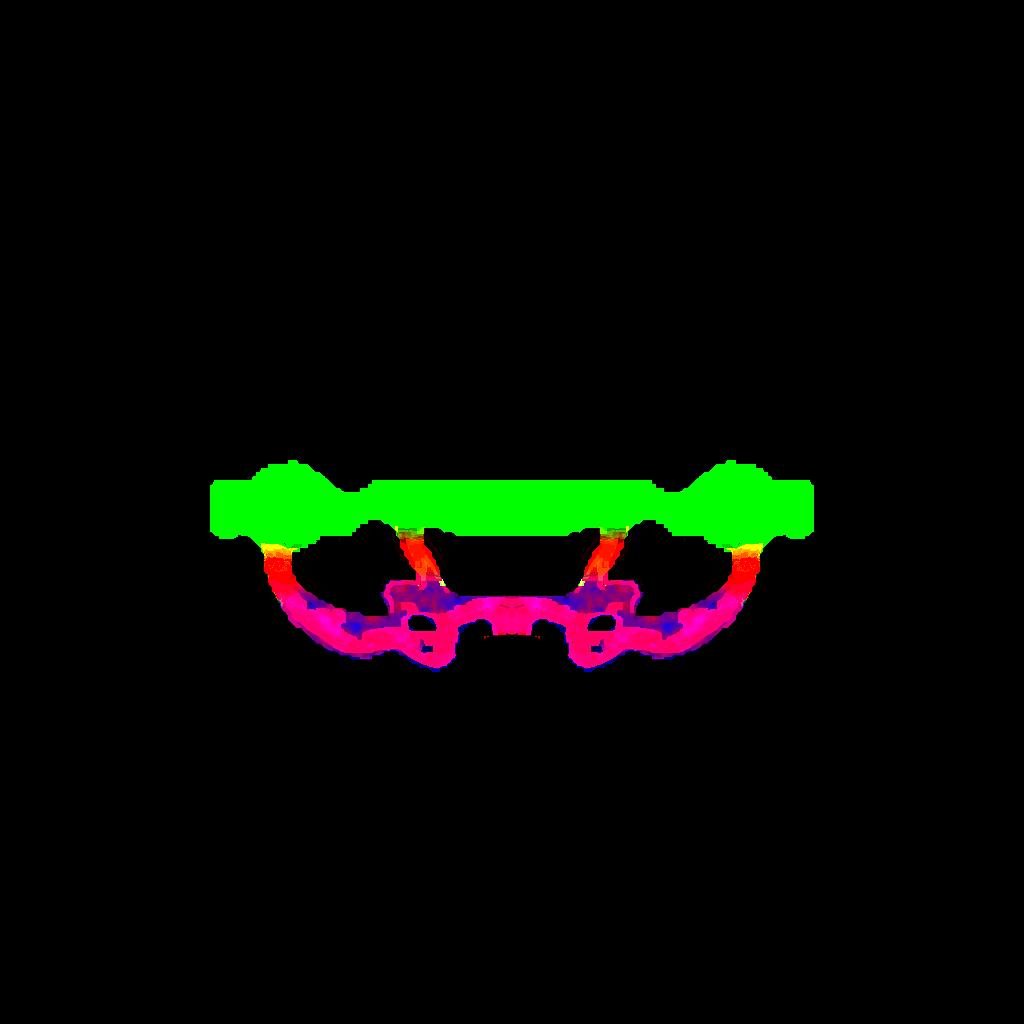
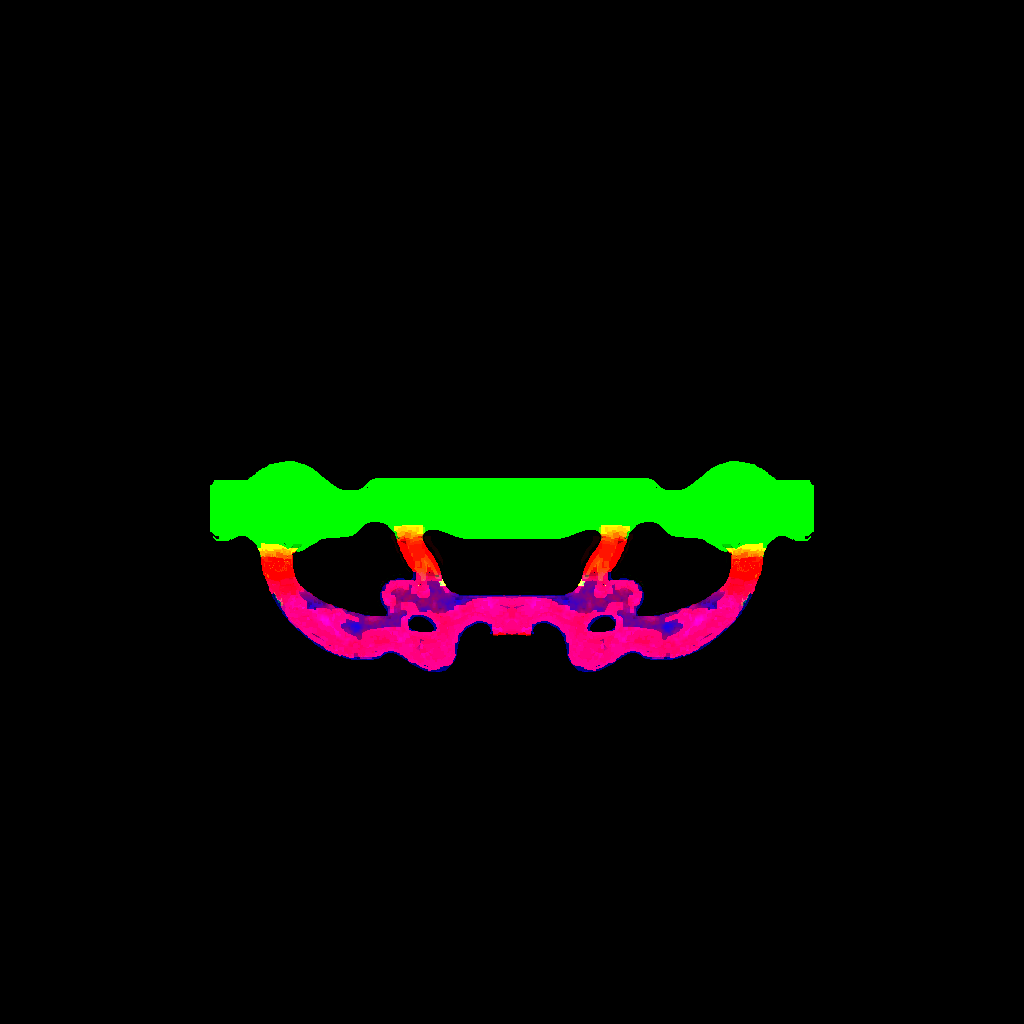
Improved Arama terrain+textures and TerrainGrid setup - Other map still to check. Set default terrain quality to 0 (best) in settings.

Changed region(s): [[0.25, 0.5312, 0.75, 0.6562], [0.5625, 0.5, 0.625, 0.5312], [0.375, 0.5, 0.4375, 0.5312]]

diff --git a/game/client/applications-display-ingame/src/main/java/amara/libraries/applications/display/ingame/maps/MapTerrain.java b/game/client/applications-display-ingame/src/main/java/amara/libraries/applications/display/ingame/maps/MapTerrain.java
@@ -35,8 +35,8 @@ public class MapTerrain{
         Texture heightMapImage = MaterialFactory.getAssetManager().loadTexture("Maps/" + map.getName() + "/terrain_heightmap.png");
         ImageBasedHeightMap heightmap = new ImageBasedHeightMap(heightMapImage.getImage());
         heightmap.load();
-        int scaledHeightmapSize = (int) (heightmap.getSize() / Math.pow(2, Settings.getFloat("terrain_quality")));
-        terrain = new TerrainQuad("terrain", 150, scaledHeightmapSize + 1, scaleHeightmap(heightmap, scaledHeightmapSize));
+        int scaledHeightmapSize = (int) ((heightmap.getSize() / Math.pow(2, Settings.getFloat("terrain_quality"))) + 1);
+        terrain = new TerrainQuad("terrain", 129, scaledHeightmapSize, scaleHeightmap(heightmap, scaledHeightmapSize));
         float scaleX = (physicsInformation.getWidth() / terrain.getTotalSize());
         float scaleZ = (physicsInformation.getHeight() / terrain.getTotalSize());
         terrain.setLocalScale(scaleX, 1, scaleZ);

diff --git a/game/shared/core/src/main/java/amara/core/settings/IngameSettings.java b/game/shared/core/src/main/java/amara/core/settings/IngameSettings.java
@@ -89,7 +89,7 @@ public class IngameSettings extends SettingsCategory{
                     "effects", "Effects",
                     new Setting[]{
                         new Setting("hardware_skinning", "Hardware Skinning", new BooleanType(true)),
-                        new Setting("terrain_quality", "Terrain Quality", new SliderType(1, 0, 4, 1, 1)),
+                        new Setting("terrain_quality", "Terrain Quality", new SliderType(0, 0, 4, 1, 1)),
                         new Setting("terrain_triplanar_mapping", "Terrain Tri-Planar Mapping", new BooleanType(true)),
                         new Setting("shadow_quality", "Shadow Quality", new SliderType(2, 0, 4, 1, 1)),
                         new Setting("fog_of_war_resolution", "F.o.W. Resolution", new SliderType(1, 0.5f, 10, 0.1f, 0.5f)),
